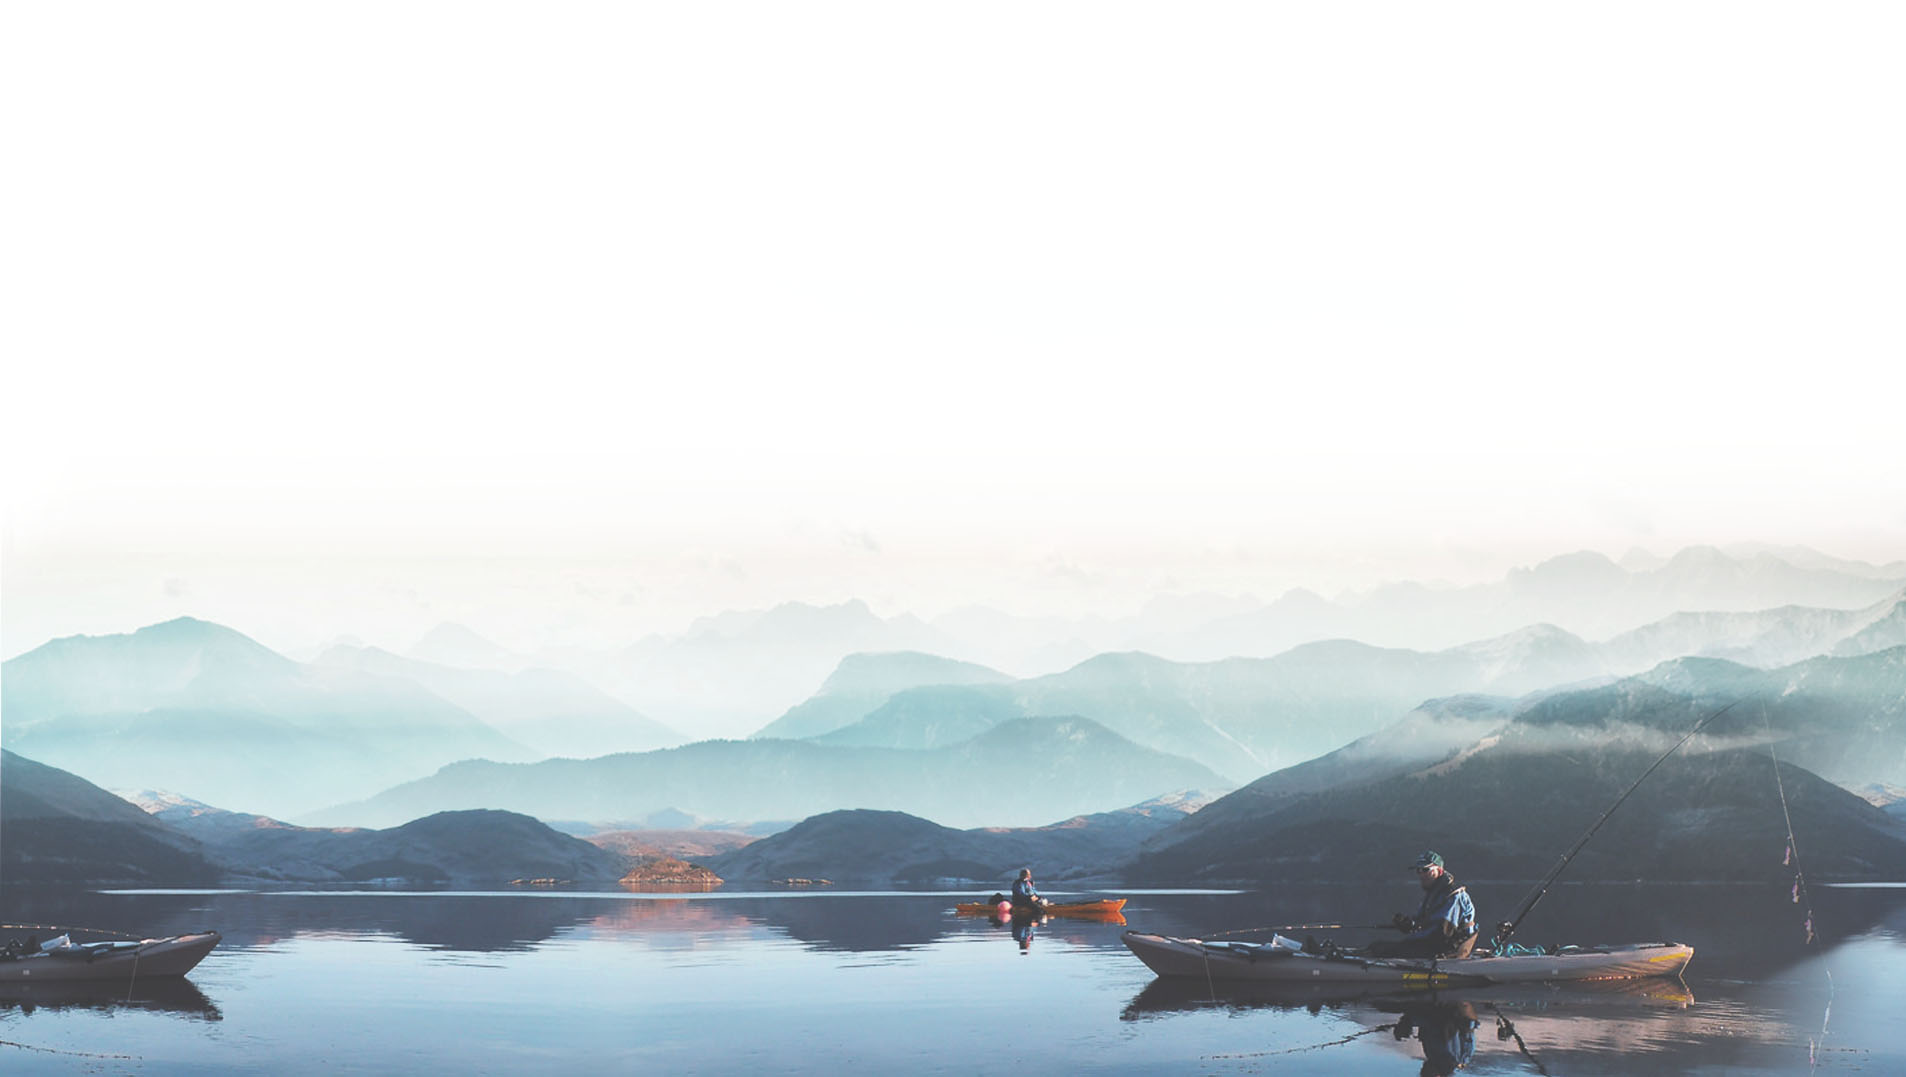
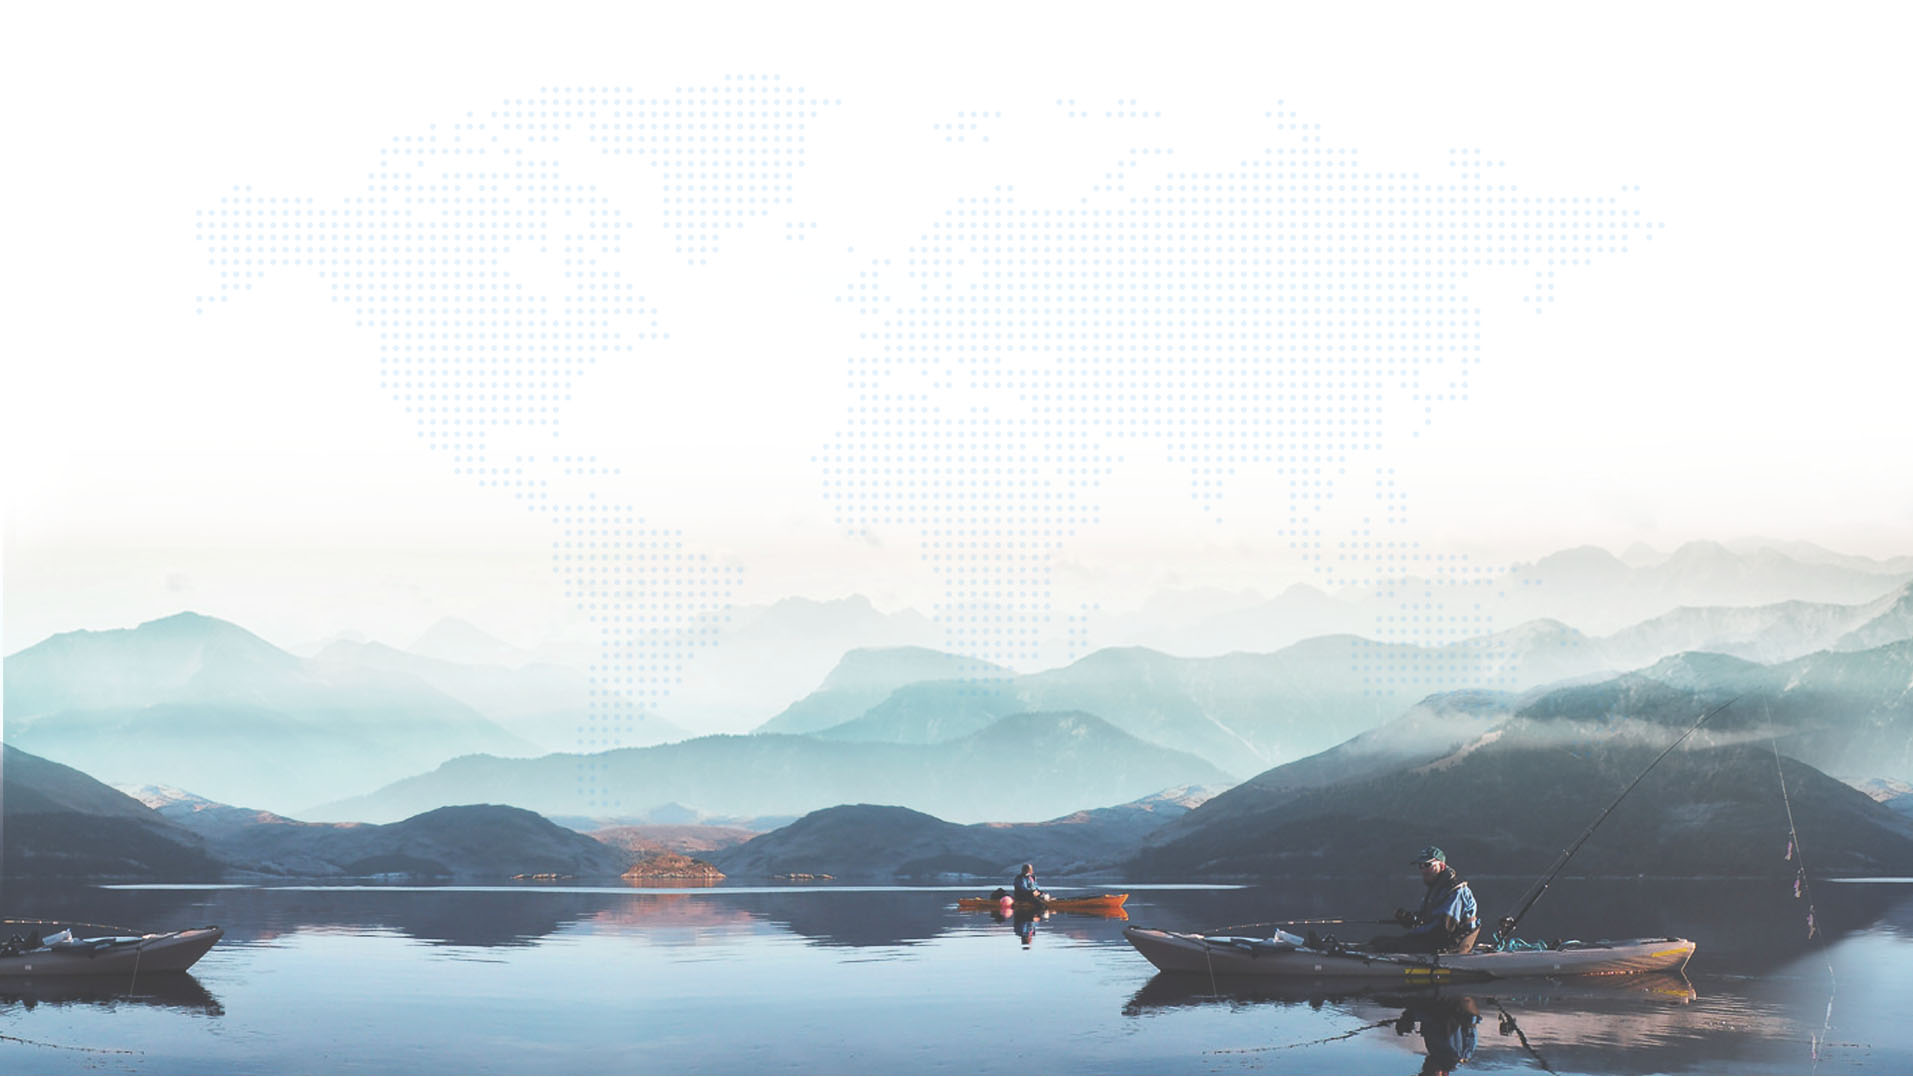
Slick Slider

diff --git a/style/custom.css b/style/custom.css
@@ -8,9 +8,9 @@ font-family:"Bringin" !important;
     -webkit-text-stroke-width: 0.2px;
     -moz-osx-font-smoothing: grayscale;}
 */
-/*body {
+body {
   position: relative;
-}*/
+}
 .container {
   max-width: 1170px;
   padding: 0px 15px;
@@ -401,25 +401,16 @@ display: block;
 .sec-6-div {
   position: relative;
 }
-.map_blue {
-  background-color: transparent;
-  background-image: url(../img/section-6/map_blue.png);
-  background-repeat: no-repeat;
-  background-size: cover;
-  position: absolute;
-  width: 1470px;
-  height: 740px;
-  margin-top: 50px;
-  z-index: 1;
-}
 
 /*Начало стилей слайдера*/
-.slick-track {
+div.slick-track {
   height: 382px;
 }
-.slick-slide {
-  margin-left: 20px;
-  margin-right: 20px;
+div.slick-slide {
+  margin-left: 17.5px;
+  margin-right: 17.5px;
+  min-height: 382px;
+  min-width: 200px;
 }
 button.slick-prev.slick-arrow:before {
   color: #e5f2fc;
@@ -434,21 +425,19 @@ button.slick-next:before {
   content: '←';
 }
 
-
-
 /*Конец стилей слайдера*/
 
 .sec-title {
-  position: relative;
     text-align: center;
     font-family: 'Open Sans', sans-serif;
     font-size: 30px;
     font-weight: bold;
+    letter-spacing: 3px;
     text-transform: uppercase;
     color: #2c2e37;
-    margin-top: 55px;
-    position: relative;
-    z-index: 2;
+    padding-top: 45px;
+    /*position: relative;
+    z-index: 2;*/
 }
 .sec-title::before {
   content: "";
@@ -461,13 +450,13 @@ button.slick-next:before {
   color: #d6d6d6;
   font-family: FontAwesome;
   margin-left: calc(50% - 40px);
-  margin-bottom: 35px;
+  margin-bottom: 40px;
 }
 
 .slider {
   position: absolute;
   z-index: 2;
-  margin: 100px auto;
+  margin-top: 95px;
   width: 100%;
 }
 .slider_star {

diff --git a/index.html b/index.html
@@ -123,7 +123,6 @@
       </div>
     </section>
     <section class="sec-6">
-      <div class="map_blue"></div>
       <div class="container clearfix sec-6-div">
         <h3 class="sec-title">Travel with us</h3>
         <div class="slider autoplay">
@@ -335,24 +334,6 @@
       autoplay: true,
       centerPadding: 17.5,
       autoplaySpeed: 2000,
-      responsive: [
-    {
-      breakpoint: 980,
-      settings: {
-        slidesToShow: 3,
-        slidesToScroll: 1,
-        autoplay: true,
-      }
-    },
-    {
-      breakpoint: 768,
-      settings: {
-        slidesToShow: 2,
-        slidesToScroll: 1,
-        autoplay: true,
-      }
-    }
-  ]
     });
     });
   </script>
